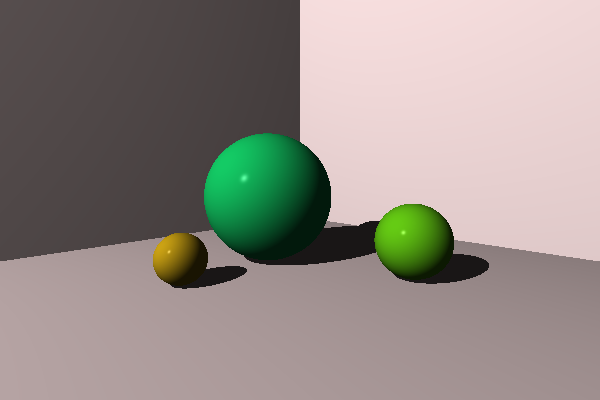
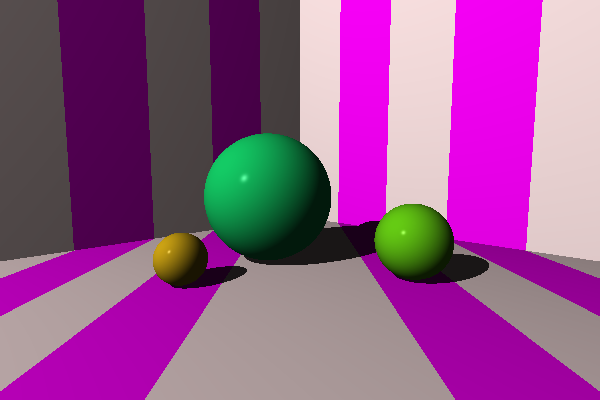
Chapter 10. Patterns - constant world space stripes

diff --git a/demo/src/chapter7_scene.rs b/demo/src/chapter7_scene.rs
@@ -33,7 +33,7 @@ pub fn ray_trace_end_chapter_7_scene<C: Canvas<Color>>(canvas: &mut C) {
 fn floor() -> Shape {
     let mut floor = Shape::new_plane_transformed(Matrix4x4::scale(10., 0.01, 10.));
     let mut material = Material::default();
-    material.pattern = Pattern::Solid(color!(1, 0.9, 0.9));
+    material.pattern = Pattern::Stripe(color!(1, 0.9, 0.9), color!(1,0,1));
     material.specular = 0.;
     floor.material = material;
     floor
@@ -47,7 +47,7 @@ fn wall(y: Angle) -> Shape {
             .pre_scale(10., 0.01, 10.),
     );
     let mut material = Material::default();
-    material.pattern = Pattern::Solid(color!(1, 0.9, 0.9));
+    material.pattern = Pattern::Stripe(color!(1, 0.9, 0.9), color!(1,0,1));
     material.specular = 0.;
     wall.material = material;
     wall
